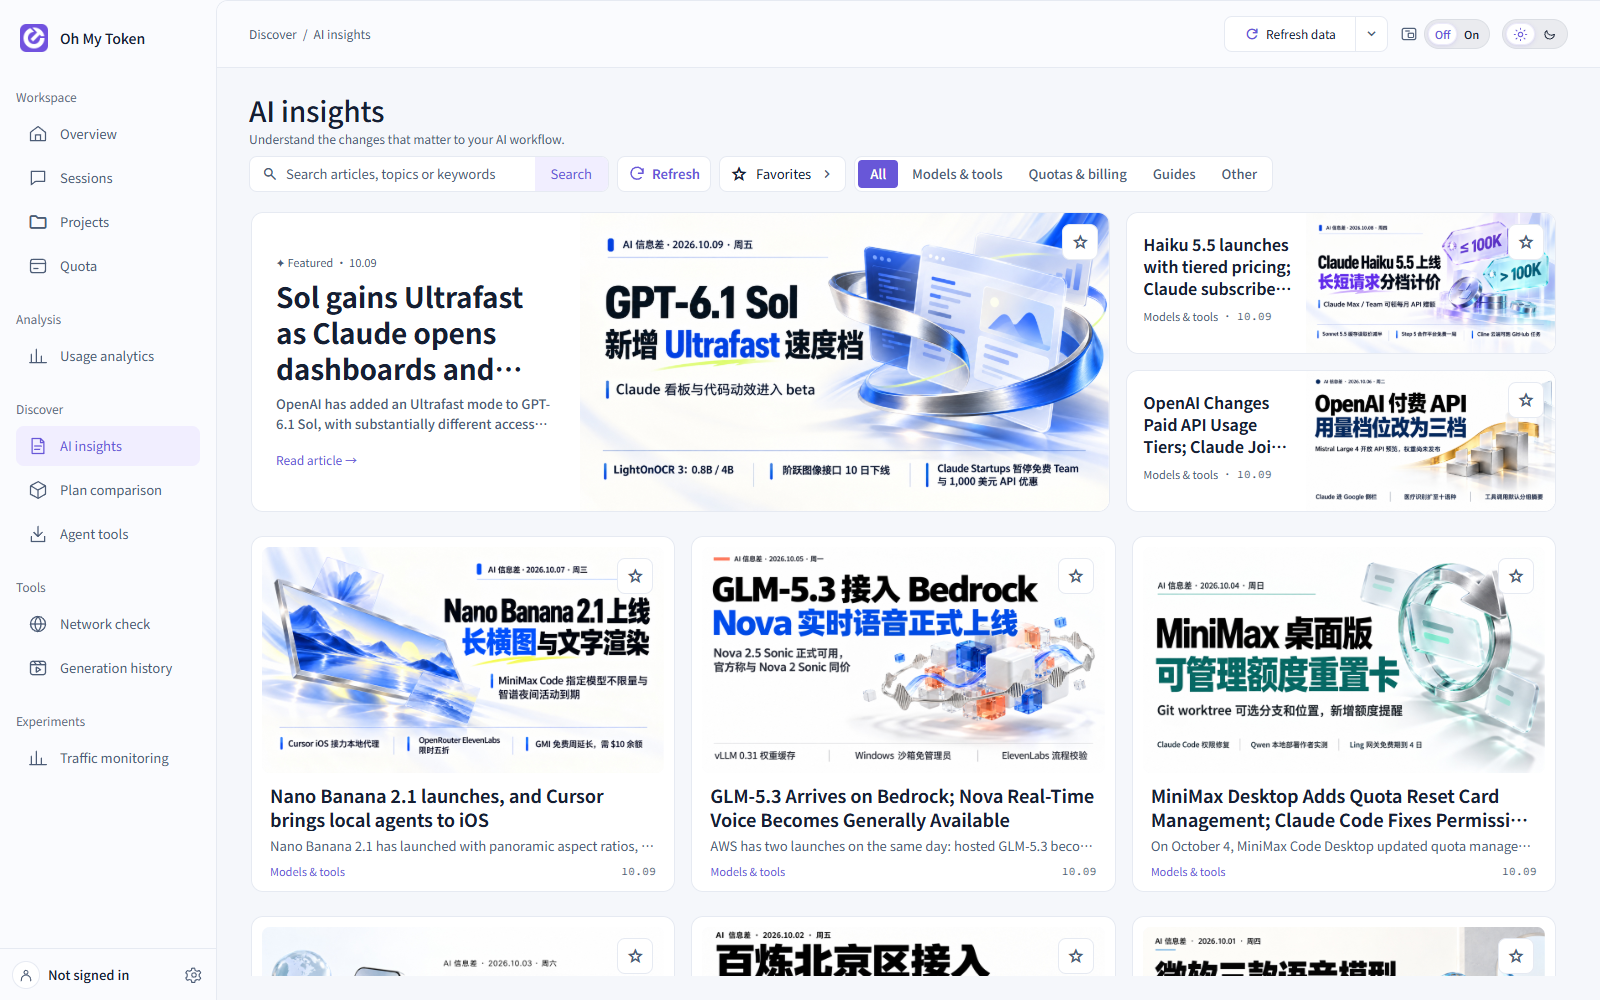
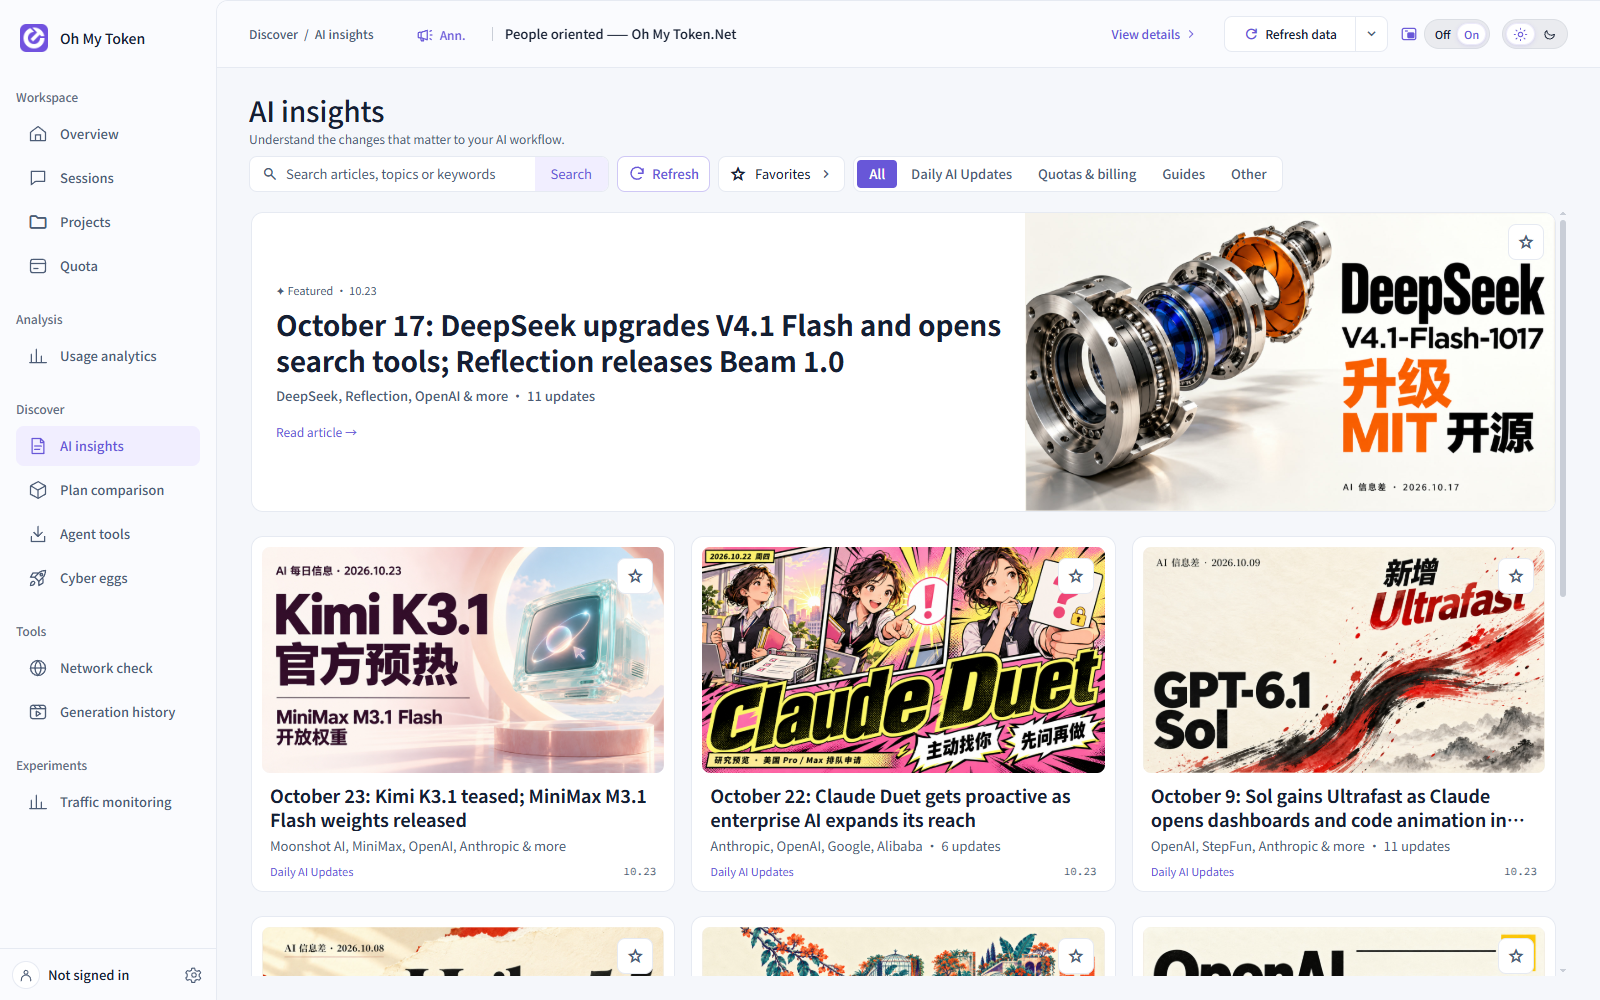
docs: add bilingual Cyber Eggs guide and refresh insights previews

diff --git a/README_EN.md b/README_EN.md
@@ -18,11 +18,11 @@
   <a href="#product-preview">Product preview</a>
 </p>
 
-Oh My Token is a desktop app for understanding usage across multiple AI agents. It reads local usage records from [multiple supported agents](#supported-agents) and brings tokens, reference API costs, sessions, and projects into one workspace. Check provider quotas and account balances while you work, then turn your usage into a visual recap to share.
+Oh My Token is a desktop app for understanding usage across multiple AI agents. It reads local usage records from [multiple supported agents](#supported-agents) and brings tokens, reference API costs, sessions, and projects into one workspace. Check provider quotas and account balances while you work, then turn your usage into a visual recap to share. Discover also includes Cyber Eggs activity calendars, plan and API price comparison, AI insights, and agent downloads.
 
 ## Product preview
 
-The previews use demo data. Amounts, quotas, prices, and articles illustrate the interface. Click an animation to open its full-resolution still image.
+Usage, amounts, quotas, prices, and activity entries use demo data. The AI insights screenshots show online content loaded in the installed production app. Click an animation to open its full-resolution still image.
 
 [![Usage analytics by model, agent, and project](docs/screenshots/readme/analytics-en.gif)](docs/screenshots/readme/analytics-en.png)
 
@@ -70,7 +70,20 @@ Turn local usage into animated rankings, trends, and changing shares, or a still
 
 ### Discover insights and tools
 
-Discover brings together plan and API price comparison, AI insights, and agent downloads. These features require an internet connection.
+Discover brings together Cyber Eggs, plan and API price comparison, AI insights, and agent downloads. These features require an internet connection.
+
+#### Cyber Eggs
+
+Browse provider updates on quota resets, reset cards, limited-time free offers, and token grants. Filter recent activities by provider on the home page, then open a provider's monthly calendar to inspect dates, details, and available source links. Switch display time zones as needed. Dates and eligibility follow the provider's official information and account terms.
+
+![Cyber Eggs home with provider entries, a recent activity feed, and provider filters](docs/screenshots/readme/cyber-eggs-home-en.png)
+
+<details>
+<summary>View the provider activity calendar</summary>
+
+![GPT activity calendar with monthly browsing, daily activity markers, and time zone switching](docs/screenshots/readme/cyber-eggs-calendar-en.png)
+
+</details>
 
 #### Plan and API price comparison
 
